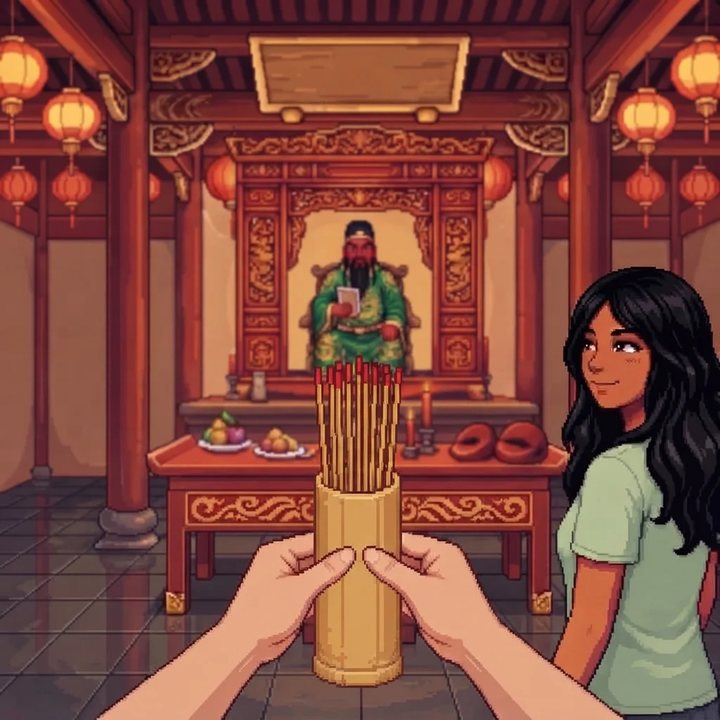
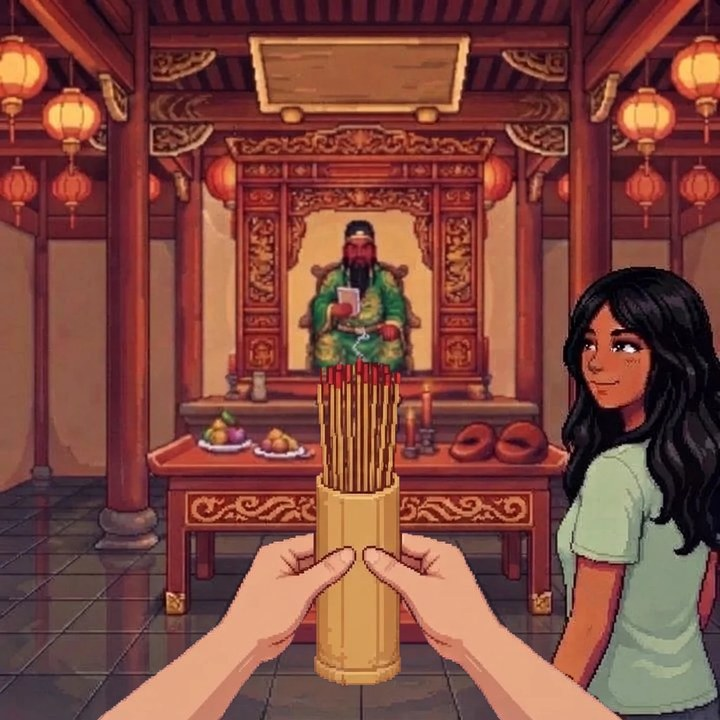
關帝廟：求籤台詞調整、搖籤筒改成單一按鈕加晃動掉籤動畫
- 插香過場與擲筊的旁白、台詞更新，統一用「關聖帝君」
- 抽籤只剩「輕搖籤筒」一個按鈕，移除告示牌與答對說明
- 搖籤時手和籤筒晃動，籤掉到地上，長度與音效相同
- 過場改用籤掉在地上的圖，按鈕改為「問問關聖帝君是不是這支籤」

Claude-Session: https://claude.ai/code/session_01VBTS7qZjQZMzN5jLrVhZ8X

diff --git a/games/guandi/index.html b/games/guandi/index.html
@@ -339,7 +339,48 @@ function rattle(ctx, t0, o) {
 }
 const RATTLE = { seed: 7, n: 22, lo: 1800, hi: 5200, q: 7, tube: 420, thud: .25, vol: 1.18 };
 const RATTLE_MS = 2300;
-const SHAKE = '搖一搖籤筒，讓一支籤自己掉出來。';
+const SHAKE = '輕搖籤筒，等一支籤掉出來。';
+
+/* 搖籤筒動畫：背景（draw_bg.jpg）不動，手和籤筒（draw_hands.png，比畫面高 60，下緣的手臂有延長）跟著聲音晃五下，
+   最後一支籤翻出來掉到地上彈兩下。t＝聲音開始後的秒數，時間點和 rattle() 一樣。
+   停住時的畫面＝draw.jpg，最後一格＝draw_done.jpg */
+const ART = {};
+function drawArt() {
+  if (!ART.bg) for (const [k, f] of [['bg', 'draw_bg.jpg'], ['hands', 'draw_hands.png']]) { ART[k] = new Image(); ART[k].src = 'images/' + f; }
+  return [ART.bg, ART.hands].every(i => i.complete && i.naturalWidth);
+}
+function stickAt(g, x, y, deg, sc, clipY) {   // 一支籤（紅頭）
+  g.save();
+  if (clipY) { g.beginPath(); g.rect(0, 0, 720, clipY); g.clip(); }
+  g.translate(x, y); g.rotate(-deg * Math.PI / 180); g.scale(sc, sc);
+  [['#d79646', -3.5, -75, 7, 150], ['#a05f28', -3.5, -75, 2, 150], ['#7d461e', 1.5, -75, 2, 150], ['#b92823', -3.5, -75, 7, 30]]
+    .forEach(([c, ...r]) => { g.fillStyle = c; g.fillRect(...r); });
+  g.restore();
+}
+function shakeFrame(g, tmp, t) {
+  const GAP = .34, DROP = 5 * GAP + .22, OUT = DROP - .3, tg = tmp.getContext('2d');
+  tg.clearRect(0, 0, tmp.width, tmp.height); tg.drawImage(ART.hands, 0, 0);
+  let dx = 0, dy = 0, ang = 0;
+  if (t > 0 && t < 5 * GAP) {
+    const s = Math.sin((t % GAP) / GAP * 2 * Math.PI), w = Math.sin(t / GAP * Math.PI);
+    dy = 16 * s; ang = 4.5 * w; dx = 5 * w;
+    for (let x = 314; x < 406; x += 7) {   // 籤束一撮一撮往上跳
+      const up = Math.floor(Math.random() * 14 * Math.abs(s) + Math.random() * 4);
+      if (up) tg.drawImage(ART.hands, x, 352, 7, 126, x, 352 - up, 7, 126);
+    }
+  }
+  g.drawImage(ART.bg, 0, 0, 720, 720);
+  if (t >= 1.45 && t < OUT) stickAt(tg, 366, 415 - 75 * Math.min(1, (t - 1.45) / (OUT - 1.45)), -3, 1, 470);   // 從籤筒冒出來
+  else if (t >= OUT && t < DROP) {   // 翻出去往地上掉
+    const u = (t - OUT) / (DROP - OUT);
+    stickAt(g, 366 - 206 * u, 340 + 292 * u * u - 60 * Math.sin(Math.PI * u), -3 + 101 * u, 1 - .12 * u);
+  } else if (t >= DROP) {            // 落地，彈兩下
+    const d = t - DROP, lift = d < .11 ? 24 * Math.sin(Math.PI * d / .11) : d < .18 ? 10 * Math.sin(Math.PI * (d - .11) / .07) : 0;
+    stickAt(g, 160, 632 - lift, 98, .88);
+  }
+  g.save(); g.translate(dx, dy); g.translate(360, 640); g.rotate(-ang * Math.PI / 180); g.translate(-360, -640);
+  g.drawImage(tmp, 0, 0); g.restore();
+}
 
 function beiSVG(face, i) {
   const flip = i ? ' transform="translate(W 0) scale(-1 1)"' : '';
@@ -391,7 +432,7 @@ const STAGE = {
 
 /* 過場按鈕上的情境句：key 是下一關 */
 const NEXT_LABEL = {
-  GATE: '走到廟門口', FIRE: '去點香處拿香點香', HEAVEN: '走到廟的前面', MAIN: '走進大殿', SIDE: '走到側殿', THROW: '回到大殿', DRAW: from => from === 'CONFIRM' ? '回到籤筒重抽' : '走到籤筒前', CONFIRM: '問是不是這支籤', SLIP_NUM: '走到籤櫃',
+  GATE: '走到廟門口', FIRE: '去點香處拿香點香', HEAVEN: '走到廟的前面', MAIN: '走進大殿', SIDE: '走到側殿', THROW: '去求籤', DRAW: from => from === 'CONFIRM' ? '回去重新求籤' : '走到籤筒前', CONFIRM: '問問關聖帝君是不是這支籤', SLIP_NUM: '走到籤櫃',
   READ: '看籤詩', REGISTER: '走到登記處', PAY: '付錢', PAY_FIX: '聽廟公重算', CHANGE: '等找錢', AMULET: '看旁邊的桌子', GUOLU: '走到香爐前', EXIT: '準備離開', END: '走出廟門'
 };
 
@@ -430,12 +471,13 @@ const Game = defineGame({
   att: {},                       // 每一關選了幾次（第一次就對才給綠卡）
   cash: null,
   ti: 0, streak: 0, goNext: null,   // 擲筊：第幾次、連續幾個聖筊、這一關丟完要去哪裡（null＝還要再丟）
-  EXTRA_IMAGES: ['images/gate_in.jpg', 'images/fire_out.jpg'],   // imageFor() 才會用到的圖，也先載好
+  EXTRA_IMAGES: ['images/gate_in.jpg', 'images/fire_out.jpg', 'images/draw_done.jpg', 'images/draw_bg.jpg', 'images/draw_hands.png'],   // imageFor() 才會用到的圖，也先載好
   /* 過場頁預設用上一關的圖；旁白已經到下一個畫面時，改用符合旁白的圖：進廟門（點火處、Ami 在旁邊）、熄火後（香頭只剩灰） */
   imageFor() {
     if (this._transMode && this._trans && this._trans.from === 'GATE' && this._trans.to === 'FIRE') return ['images/gate_in.jpg', '🕯'];
     if (this._transMode && this._trans && this._trans.from === 'FIRE' && this._trans.to === 'HEAVEN') return ['images/fire_out.jpg', '🔥'];
     if (this._transMode && this._trans && this._trans.from === 'HEAVEN') return ['images/heaven.jpg', '🙏'];   // 拜天公的過場：天公爐   // 火熄了：香頭只剩灰、還在冒煙
+    if (this._transMode && this._trans && this._trans.from === 'DRAW') return ['images/draw_done.jpg', '🎋'];   // 抽籤的過場：籤掉在地上
   },
   onStart() { this.updateCash(); },
   updateCash() { document.getElementById('cash-badge').textContent = ''; },
@@ -485,7 +527,7 @@ const Game = defineGame({
     this.ti = 0; this.streak = 0; this.goNext = null;
     this.phase = 'ready'; this.round = 0; this.last = null; this.busy = false;
   },
-  /* 抽籤：選對以後先播籤筒聲，播完才跳下一頁；按了靜音、或裝置不能出聲就不用等 */
+  /* 抽籤：按下以後播籤筒聲和搖晃動畫，播完才跳下一頁。靜音照樣播動畫（只是沒聲音）；開了「減少動態」就不晃 */
   busy: false,
   playRattle() {
     try { if (localStorage.getItem('hg.mute.taiwan-life') === '1') return false; } catch (e) {}
@@ -496,14 +538,38 @@ const Game = defineGame({
     } catch (e) { return false; }
     return true;
   },
+  /* 在場景圖上面疊一張畫布播動畫；回傳畫布（圖還沒載好就不播，回傳 null） */
+  shakeAnim(t) {
+    const img = document.getElementById('npc-avatar');
+    if (!drawArt() || !img.offsetWidth) return null;
+    const cv = document.createElement('canvas'), tmp = document.createElement('canvas');
+    cv.id = 'shake-canvas'; cv.width = cv.height = tmp.width = 720; tmp.height = ART.hands.naturalHeight;
+    cv.setAttribute('aria-hidden', 'true');
+    const g = cv.getContext('2d'), t0 = performance.now(); let last = -1;
+    const place = () => Object.assign(cv.style, { position: 'absolute', left: img.offsetLeft + 'px', top: img.offsetTop + 'px', width: img.offsetWidth + 'px', height: img.offsetHeight + 'px', borderRadius: getComputedStyle(img).borderRadius });
+    img.parentNode.style.position = 'relative'; img.parentNode.appendChild(cv); place(); shakeFrame(g, tmp, 0);
+    const tick = () => {
+      if (!cv.isConnected) return;
+      if (this.task !== t || !this.busy || this.state !== 'DRAW') return cv.remove();
+      const sec = (performance.now() - t0) / 1000 - .05, n = Math.floor(sec * 25);   // 每秒換 25 次
+      if (n !== last) { last = n; place(); shakeFrame(g, tmp, sec); }
+      requestAnimationFrame(tick);
+    };
+    requestAnimationFrame(tick);
+    return cv;
+  },
   handleChoice(choice) {
-    if (this.busy) return;                       // 聲音播放中，按鈕先不理
-    if (this.state !== 'DRAW' || choice !== SHAKE || !this.playRattle()) return GameCore.handleChoice.call(this, choice);
+    if (this.busy) return;                       // 播放中，按鈕先不理
+    if (this.state !== 'DRAW' || choice !== SHAKE) return GameCore.handleChoice.call(this, choice);
+    const sound = this.playRattle(), calm = matchMedia('(prefers-reduced-motion: reduce)').matches;
+    if (!sound && calm) return GameCore.handleChoice.call(this, choice);
     const t = this.task;
     this.busy = true; Tr.closeAll(); Speech.stop(); Music.duck(true);
     document.querySelectorAll('#options-area .opt').forEach(b => { b.disabled = true; });
+    const cv = calm ? null : this.shakeAnim(t);
     setTimeout(() => {
       Music.duck(false);
+      if (cv) cv.remove();
       if (this.task !== t || !this.busy) return;
       this.busy = false;
       if (this.state === 'DRAW') GameCore.handleChoice.call(this, choice);
@@ -525,7 +591,6 @@ const Game = defineGame({
       HEAVEN: L('告示牌：請先拜天公，再拜主神。', 'Letrero: primero rinde culto al Cielo y después a la deidad principal.', 'Sign: first pay respects to Heaven, then to the main deity.'),
       MAIN: L('告示牌：向神明說話時，先問好，再說自己的姓名、生日和住址，然後再說心願。', 'Letrero: al hablar con la deidad, saluda primero, luego di tu nombre, cumpleaños y dirección, y después tu deseo.', 'Sign: when you speak to the deity, greet first, then say your name, birthday and address, and then your wish.'),
       THROW: L('告示牌：一平一圓是聖筊（同意）；兩個平面是笑筊（還沒決定）；兩個圓面是陰筊（不同意）。抽籤前要一個聖筊；抽籤後要連續三個聖筊，才是那支籤。', 'Letrero: una plana y una redonda = sí; dos planas = sonrisa (aún no decide); dos redondas = no. Antes de sacar la varilla hace falta un «sí»; después, tres «sí» seguidos para confirmarla.', 'Sign: one flat + one round = yes; both flat = smile (undecided); both round = no. One yes before drawing; three yeses in a row afterwards to confirm the stick.'),
-      DRAW: L('告示牌：搖籤筒，掉出一支籤就好。', 'Letrero: agita el cilindro; basta con una varilla que caiga.', 'Sign: shake the holder — one stick that falls out is enough.'),
       SLIP_NUM: L('告示牌：籤支上的號碼，要和籤詩的號碼一樣。', 'Letrero: el número de la varilla debe ser igual al del papel.', 'Sign: the number on the stick must match the number on the slip.'),
       REGISTER: L('告示牌：光明燈，一年五百元。請寫姓名。', 'Letrero: lámpara de luz, un año, NT$500. Escribe tu nombre.', 'Sign: light lamp, one year, NT$500. Please write your name.'),
       AMULET: L('告示牌：平安符請自己拿，隨喜投香油錢。', 'Letrero: toma el amuleto tú mismo y deja la donación que quieras.', 'Sign: take a charm yourself and donate as you wish.'),
@@ -538,7 +603,7 @@ const Game = defineGame({
     const at = s => ORDER.indexOf(this.st0) >= ORDER.indexOf(s);
     const t = this.task, sg = this.signs();
     const out = [{ title: 'Ami 說的話', lines: this.amiLines() }];
-    const signs = ['GATE', 'FIRE', 'HEAVEN', 'MAIN', 'THROW', 'DRAW', 'SLIP_NUM', 'REGISTER', 'AMULET', 'GUOLU', 'EXIT'].filter(s => at(s)).map(s => sg[s]);
+    const signs = ['GATE', 'FIRE', 'HEAVEN', 'MAIN', 'THROW', 'SLIP_NUM', 'REGISTER', 'AMULET', 'GUOLU', 'EXIT'].filter(s => at(s)).map(s => sg[s]);
     if (signs.length) out.push({ title: '廟裡的告示牌', lines: signs });
     if (at('PAY_FIX')) out.push({ title: '廟公說的話', lines: [L(`廟公：一共是${zhNum(t.said)}元。`, `Son ${esM(t.said)} en total.`, `${enM(t.said)} in total.`)] });
     return out;
@@ -633,18 +698,19 @@ const Game = defineGame({
   },
   /* 這一次丟出來的結果，Ami 說一句 */
   amiResult(st) {
-    const k = this.last, zh = RES[k].zh, es = { sheng: 'sí', xiao: 'sonrisa', yin: 'no' }[k], en = { sheng: 'yes', xiao: 'smile', yin: 'no' }[k];
+    const k = this.last;
     const say = (z, s, e) => L(`Ami：${z}`, s, e);
     if (st === 'THROW') {
-      if (k === 'sheng') return say('是聖筊！可以抽籤了。', '¡Salió «sí»! Ya puedes sacar la suerte.', "It's a yes! You can draw now.");
+      if (k === 'sheng') return say('是聖筊！關聖帝君說可以，去求籤吧！', '¡Salió «sí»! Guan Shengdijun dice que sí. ¡Ve a pedir tu suerte!', "It's a yes! Lord Guan says you may. Go and ask for your fortune!");
       return k === 'xiao'
-        ? say('是笑筊，神明沒有回答。再丟一次。', 'Salió «sonrisa»: la deidad no responde. Lanza otra vez.', "It's a smile: no answer from the deity. Throw again.")
-        : say('是陰筊，神明說不行。再丟一次。', 'Salió «no»: la deidad dice que no. Lanza otra vez.', "It's a no: the deity says no. Throw again.");
+        ? say('是笑筊，關聖帝君笑笑的沒有回答，再試一次看看吧！', 'Salió «sonrisa»: Guan Shengdijun sonríe y no responde. ¡Prueba otra vez!', "It's a smile: Lord Guan just smiles and doesn't answer. Try again!")
+        : say('是陰筊，關聖帝君說不行，再試一次看看吧！', 'Salió «no»: Guan Shengdijun dice que no. ¡Prueba otra vez!', "It's a no: Lord Guan says no. Try again!");
     }
-    if (k !== 'sheng') return say(`是${zh}，不是這支籤。重新抽一支吧。`, `Salió «${es}»: no es esta varilla. Saca otra.`, `It's a "${en}": not this stick. Draw another one.`);
+    if (k === 'xiao') return say('是笑筊，可能不是這支，再求一支看看吧！', 'Salió «sonrisa»: quizá no sea esta. ¡Pide otra varilla!', "It's a smile: maybe it's not this one. Ask for another stick!");
+    if (k === 'yin') return say('是陰筊，關聖帝君說不是這支，再求一支看看吧！', 'Salió «no»: Guan Shengdijun dice que no es esta. ¡Pide otra varilla!', "It's a no: Lord Guan says it's not this one. Ask for another stick!");
     return this.streak >= 3
-      ? say('三個聖筊！就是這支籤。', '¡Tres «sí»! Es esta varilla.', 'Three yeses! This is the one.')
-      : say('聖筊！再丟一次。', '¡«Sí»! Lanza otra vez.', 'Yes! Throw again.');
+      ? say('三個聖筊！關聖帝君說就是這支籤！', '¡Tres «sí»! Guan Shengdijun dice que es esta varilla.', 'Three yeses! Lord Guan says this is the one!')
+      : say('是聖筊！很好，再丟一次！', '¡Salió «sí»! Muy bien, lanza otra vez.', "It's a yes! Good, throw again!");
   },
   testPrep() {   // 自動測試用：擲筊關直接丟到可以換下一步
     if (!['THROW', 'CONFIRM'].includes(this.state) || this.goNext) return;
@@ -803,7 +869,8 @@ const Game = defineGame({
         dialogue: () => [narr('你走到側殿，向其他神明拜了三下。', 'Vas al salón lateral y haces tres reverencias a las otras deidades.', 'You go to the side hall and bow three times to the other deities.')],
         options: ['插上最後一支香。'],
         next: () => {
-          Game.thought = [narr('你插上最後一支香，三支香都拜完了。', 'Pones la última varilla: ya has ofrecido las tres.', "You place the last stick — you've now offered all three.")];
+          Game.thought = [narr('你插上最後一支香，雙手合十再拜一次。', 'Pones la última varilla, juntas las manos y haces otra reverencia.', 'You place the last stick, press your palms together and bow once more.'),
+            ami('我們去跟關聖帝君求個籤吧！', '¡Vamos a pedirle una suerte a Guan Shengdijun!', "Let's go and ask Lord Guan for a fortune!")];
           Game.state = 'THROW';
         }
       },
@@ -811,24 +878,24 @@ const Game = defineGame({
       /* ═══ 擲筊（抽籤前）：一個聖筊，才可以抽籤 ═══ */
       THROW: {
         place: 'temple',
-        html: () => Game.formatText([L('我：請問關聖帝君，我可以抽籤嗎？', 'Yo: Guan Shengdijun, ¿puedo sacar la suerte?', 'Me: Lord Guan, may I draw a fortune?')]) + Game.beiHTML(),
+        html: () => Game.formatText([ami('要先問問關聖帝君可不可以給你一支籤唷！', 'Primero hay que preguntarle a Guan Shengdijun si puede darte una varilla.', 'First you need to ask Lord Guan whether he can give you a fortune stick!'),
+          L('我：請問關聖帝君，可以給我一支籤嗎？', 'Yo: Guan Shengdijun, ¿puede darme una varilla, por favor?', 'Me: Lord Guan, may I have a fortune stick?')]) + Game.beiHTML(),
         mount: box => Game.bindToss(box),
         dialogue: () => said('THROW'),
         options: goLabel,
         next: leaveThrow
       },
 
-      /* ═══ 抽籤 ═══ */
+      /* ═══ 抽籤：只有一個動作（各廟做法不同，不考怎麼抽，也不扣分） ═══ */
       DRAW: {
         place: 'temple',
-        dialogue: () => [narr('籤筒裡有很多支籤。', 'El cilindro tiene muchas varillas.', 'The holder is full of fortune sticks.'),
-          ami('我在旁邊陪你。', 'Estoy aquí contigo.', "I'm here with you.")],
-        options: () => rotOf(t, [SHAKE, '一次抽兩支，比較保險。', '用手在籤筒裡挑一支自己喜歡的。']),
-        next: c => {
-          if (c !== SHAKE) { Game.addMistake(c.includes('兩支') ? M('一次只能抽一支，一件事問一次。', 'Solo se saca una varilla: una pregunta, una vez.', 'Draw only one stick — one question, one time.') : M('籤要讓它自己掉出來，不能自己挑。', 'La varilla debe caer sola; no se elige.', 'Let the stick fall out by itself — you can’t choose.')); return; }
-          goodFirst('DRAW', '沒錯！籤要讓它自己掉出來。', '¡Exacto! La varilla debe caer sola.', 'Right! Let the stick fall out by itself.');
+        mount: () => drawArt(),   // 先把動畫要用的圖載好
+        dialogue: () => [Game.round ? ami('我們再求一支籤吧！', '¡Pidamos otra varilla!', "Let's ask for another stick!")
+          : ami('你來求一支籤吧！', '¡Pide tú una varilla!', 'Go ahead and ask for a fortune stick!')],
+        options: [SHAKE],
+        next: () => {
           const n = Game.drawnSlip().n;
-          Game.thought = [narr(`一支籤掉出來了。籤支上寫著「${slipNo(n)}」。你把籤支放在桌上。`, `Cae una varilla. Dice «${slipNoEs(n)}». La dejas sobre la mesa.`, `One stick falls out. It reads "No. ${n}". You put it on the table.`)];
+          Game.thought = [narr(`一支籤掉出來了。籤支上寫著「${slipNo(n)}」。`, `Cae una varilla. Dice «${slipNoEs(n)}».`, `A stick falls out. It reads "No. ${n}".`)];
           Game.state = 'CONFIRM';
         }
       },

diff --git a/tools/guandi_test.py b/tools/guandi_test.py
@@ -58,7 +58,7 @@ with sync_playwright() as p:
     page.wait_for_timeout(350); page.screenshot(path='/tmp/t_fly.png')
     page.wait_for_timeout(1000)
     check('第一次笑筊／陰筊時沒有任何按鈕', ev(page, 'Game.phase') == 'landed' and page.locator('#options-area .opt').count() == 0)
-    check('Ami 說結果', 'Ami：是' in txt(page) and '再丟一次' in txt(page), txt(page))
+    check('Ami 說結果', 'Ami：是' in txt(page) and '再試一次' in txt(page), txt(page))
     check('可以直接再滑', '再往上滑一次' in txt(page))
     page.wait_for_timeout(500)
     check('落地後看得到 Ami 的話', ev(page, "document.querySelector('#npc-dialogue').getBoundingClientRect().bottom <= innerHeight + 1"))
@@ -66,7 +66,7 @@ with sync_playwright() as p:
     page.locator('.toss.again').tap(); page.wait_for_timeout(200)
     check('落地後點一下不會丟', ev(page, 'Game.ti') == 1 and ev(page, 'Game.phase') == 'landed')
     swipe(page, -110); page.wait_for_timeout(1300)
-    check('再滑一次得到聖筊、出現一顆按鈕', ev(page, 'Game.ti') == 2 and page.locator('#options-area .opt').count() == 1 and '可以抽籤了' in txt(page))
+    check('再滑一次得到聖筊、出現一顆按鈕', ev(page, 'Game.ti') == 2 and page.locator('#options-area .opt').count() == 1 and '關聖帝君說可以，去求籤吧' in txt(page))
     check('聖筊以後不能再丟', page.locator('.toss[role=button]').count() == 0)
     page.screenshot(path='/tmp/t_pass.png', full_page=True)
     page.locator('#options-area .opt').click(); page.wait_for_timeout(200)
@@ -97,30 +97,37 @@ with sync_playwright() as p:
                 steps += 1; st = ev(page, 'Game.state')
                 if st == '_TRANS': ev(page, 'Game.handleChoice(Game.transLabel())'); continue
                 if st == 'DRAW':
-                    for bad in ('一次抽兩支，比較保險。', '用手在籤筒裡挑一支自己喜歡的。'):
-                        m = ev(page, 'Game.mistakes'); opt(page, bad); check('抽籤錯選扣分', ev(page, 'Game.mistakes') == m + 1 and ev(page, 'Game.state') == 'DRAW')
-                    sticks.append(ev(page, 'Game.drawnSlip().n')); opt(page, '搖一搖籤筒，讓一支籤自己掉出來。'); page.wait_for_function('()=>!Game.busy'); continue
+                    again = len(sticks) > 0
+                    check('抽籤頁 Ami 的話', ('我們再求一支籤吧！' if again else '你來求一支籤吧！') in txt(page) and '籤筒裡有很多' not in txt(page), txt(page))
+                    check('抽籤只有一個按鈕', page.locator('#options-area .opt').count() == 1 and txt(page, '#options-area') == '輕搖籤筒，等一支籤掉出來。')
+                    m = ev(page, 'Game.mistakes'); sticks.append(ev(page, 'Game.drawnSlip().n')); opt(page, '輕搖籤筒，等一支籤掉出來。'); page.wait_for_function('()=>!Game.busy')
+                    n = ev(page, 'slipNo(Game.drawnSlip().n)')
+                    check('抽籤過場的旁白、按鈕、圖', f'一支籤掉出來了。籤支上寫著「{n}」。' in txt(page) and '桌上' not in txt(page) and txt(page, '#options-area') == '問問關聖帝君是不是這支籤'
+                          and ev(page, "document.querySelector('#npc-avatar').getAttribute('src')") == 'images/draw_done.jpg' and ev(page, 'Game.mistakes') == m, txt(page))
+                    continue
                 if ev(page, 'Game.phase') == 'ready':
                     n = ev(page, 'slipNo(Game.drawnSlip().n)')
-                    mine = '我可以抽籤嗎？' if st == 'THROW' else f'請問是{n}嗎？'
+                    mine = '請問關聖帝君，可以給我一支籤嗎？' if st == 'THROW' else f'請問是{n}嗎？'
                     t_ = txt(page)
-                    check('丟之前只有玩家那一句', mine in t_ and 'Ami' not in t_ and page.locator('#options-area .opt').count() == 0, t_)
+                    ask = '要先問問關聖帝君可不可以給你一支籤唷！'
+                    check('丟之前的台詞', mine in t_ and (t_.index(ask) < t_.index(mine) if st == 'THROW' else 'Ami' not in t_) and page.locator('#options-area .opt').count() == 0, t_)
                 page.locator('.toss[role=button]').focus(); page.keyboard.press('Enter'); page.wait_for_timeout(230); throws += 1
                 k = ev(page, 'Game.last'); non += k != 'sheng'
                 faces = ev(page, "[...document.querySelectorAll('.toss.landed .bei')].map(e=>e.classList.contains('flat')?'flat':'round')")
                 check('畫面的筊杯和結果一致', faces == ev(page, f"RES['{k}'].cups"), (k, faces))
                 t_, streak, go = txt(page), ev(page, 'Game.streak'), ev(page, 'Game.goNext')
                 zh = ev(page, f"RES['{k}'].zh")
-                if st == 'THROW': say = '是聖筊！可以抽籤了。' if k == 'sheng' else f'是{zh}，神明'
-                elif k != 'sheng': say = f'是{zh}，不是這支籤。重新抽一支吧。'
-                else: say = '三個聖筊！就是這支籤。' if streak == 3 else '聖筊！再丟一次。'
+                if st == 'THROW': say = {'sheng': '是聖筊！關聖帝君說可以，去求籤吧！', 'xiao': '是笑筊，關聖帝君笑笑的沒有回答，再試一次看看吧！', 'yin': '是陰筊，關聖帝君說不行，再試一次看看吧！'}[k]
+                elif k == 'xiao': say = '是笑筊，可能不是這支，再求一支看看吧！'
+                elif k == 'yin': say = '是陰筊，關聖帝君說不是這支，再求一支看看吧！'
+                else: say = '三個聖筊！關聖帝君說就是這支籤！' if streak == 3 else '是聖筊！很好，再丟一次！'
                 check('Ami 說的結果正確', 'Ami：' + say in t_, (st, k, streak, t_))
                 if st == 'CONFIRM': check('連續聖筊計數', f'：{streak} / 3' in t_, t_)
                 btns = page.locator('#options-area .opt').count()
                 check('只有要換下一步時才有一顆按鈕', btns == (1 if go else 0), (btns, go))
                 if go:
                     label = txt(page, '#options-area')
-                    want_label = '走到籤櫃' if go == 'SLIP_NUM' else ('走到籤筒前' if st == 'THROW' else '回到籤筒重抽')
+                    want_label = '走到籤櫃' if go == 'SLIP_NUM' else ('走到籤筒前' if st == 'THROW' else '回去重新求籤')
                     check('按鈕文字', label == want_label, label)
                     page.locator('#options-area .opt').click(); page.wait_for_timeout(60)
                     check('按鈕直接到下一步', ev(page, 'Game.state') == go, ev(page, 'Game.state'))
@@ -135,30 +142,44 @@ with sync_playwright() as p:
     # ── 丟到一半重畫、離開關卡 ──
     jump(page, 'THROW', '甲'); ev(page, 'Game.toss(); Game.toss(); Game.render()'); page.wait_for_timeout(1300)
     check('連按只丟一次', ev(page, 'Game.phase') == 'landed' and ev(page, 'Game.ti') == 1)
-    # ── 籤筒聲：播完才跳頁、靜音不用等 ──
-    SHK = '搖一搖籤筒，讓一支籤自己掉出來。'
-    def btn():   # 「搖一搖」那顆按鈕（選項順序每局不同）
-        i = ev(page, "[...document.querySelectorAll('#options-area .opt')].findIndex(b=>{const c=b.cloneNode(true);c.querySelectorAll('rt').forEach(r=>r.remove());return c.textContent.includes('搖一搖')})")
-        return page.locator('#options-area .opt').nth(i)
-    jump(page, 'DRAW'); a0 = ev(page, 'Game.att.DRAW||0'); btn().click(); page.wait_for_timeout(400)
-    check('按下後先播聲音、還沒跳頁', ev(page, 'Game.busy') and ev(page, 'Game.state') == 'DRAW' and ev(page, 'Game.sfx.state') == 'running')
-    check('播放中按鈕不能按', ev(page, "[...document.querySelectorAll('#options-area .opt')].every(b=>b.disabled)"))
-    ev(page, "Game.handleChoice(" + repr(SHK) + ")")
-    m = ev(page, 'Game.mistakes'); ev(page, "Game.handleChoice('一次抽兩支，比較保險。')"); check('播放中錯選沒有作用', ev(page, 'Game.mistakes') == m)
-    page.wait_for_timeout(1200); check('1.6 秒時還在播', ev(page, 'Game.state') == 'DRAW')
-    page.wait_for_timeout(1100); check('播完跳過場', ev(page, 'Game.state') == '_TRANS' and not ev(page, 'Game.busy') and ev(page, 'Game._trans.to') == 'CONFIRM' and ev(page, 'Game.att.DRAW') == a0 + 1, (a0, ev(page, 'Game.att.DRAW')))
+    # ── 籤筒聲和搖晃動畫：點了才晃、播完才跳頁、靜音照樣晃 ──
+    SHK = '輕搖籤筒，等一支籤掉出來。'
+    btn = lambda: page.locator('#options-area .opt').first
+    snap = "document.querySelector('#shake-canvas').toDataURL()"
+    for muted in (False, True):
+        tag = '靜音' if muted else '有聲'
+        ev(page, f"localStorage.setItem('hg.mute.taiwan-life','{int(muted)}')")
+        jump(page, 'DRAW'); page.wait_for_function('()=>drawArt()'); page.wait_for_timeout(500)
+        check(tag + '：點之前沒有動畫', page.locator('#shake-canvas').count() == 0)
+        a0 = ev(page, 'Game.att.DRAW||0'); btn().click(); page.wait_for_timeout(250)
+        check(tag + '：按下後開始、還沒跳頁', ev(page, 'Game.busy') and ev(page, 'Game.state') == 'DRAW' and page.locator('#shake-canvas').count() == 1)
+        if not muted: check('有聲：聲音在播', ev(page, 'Game.sfx.state') == 'running')
+        box = ev(page, "['#shake-canvas','#npc-avatar'].map(q=>{const r=document.querySelector(q).getBoundingClientRect();return [r.x,r.y,r.width,r.height].map(Math.round)})")
+        check(tag + '：動畫蓋住場景圖', box[0] == box[1], box)
+        f1 = ev(page, snap); page.wait_for_timeout(130); check(tag + '：畫面在動', f1 != ev(page, snap))
+        page.screenshot(path=f'/tmp/t_shake_{int(muted)}.png')
+        check(tag + '：播放中按鈕不能按', ev(page, "[...document.querySelectorAll('#options-area .opt')].every(b=>b.disabled)"))
+        ev(page, "Game.handleChoice(" + repr(SHK) + ")")
+        page.wait_for_timeout(1200); check(tag + '：約 1.6 秒時還在播', ev(page, 'Game.state') == 'DRAW' and page.locator('#shake-canvas').count() == 1)
+        page.wait_for_timeout(1100); check(tag + '：播完跳過場、畫布拿掉', ev(page, 'Game.state') == '_TRANS' and not ev(page, 'Game.busy') and ev(page, 'Game._trans.to') == 'CONFIRM' and ev(page, 'Game.att.DRAW') == a0 + 1 and page.locator('#shake-canvas').count() == 0)
+    ev(page, "localStorage.removeItem('hg.mute.taiwan-life')")
     peak = ev(page, "(async()=>{const c=new OfflineAudioContext(1,44100*2.5,44100);rattle(c,.05,RATTLE);const d=(await c.startRendering()).getChannelData(0);let m=0,l=0;for(let i=0;i<d.length;i++){const a=Math.abs(d[i]);if(a>m)m=a;if(a>.01)l=i}return [m,l/44100]})()")
     check('聲音聽得到、不破音、在跳頁前結束', .3 < peak[0] <= 1 and peak[1] < 2.3, peak)
     jump(page, 'DRAW'); btn().click(); page.wait_for_timeout(200); jump(page, 'HEAVEN'); page.wait_for_timeout(2500)
-    check('播放中重開新局：不會亂跳', ev(page, 'Game.state') == 'HEAVEN' and not ev(page, 'Game.busy'))
+    check('播放中重開新局：不會亂跳', ev(page, 'Game.state') == 'HEAVEN' and not ev(page, 'Game.busy') and page.locator('#shake-canvas').count() == 0)
+    page.emulate_media(reduced_motion='reduce'); jump(page, 'DRAW'); btn().click(); page.wait_for_timeout(200)
+    check('減少動態：不晃，等聲音播完', ev(page, 'Game.busy') and page.locator('#shake-canvas').count() == 0)
+    page.wait_for_function('()=>!Game.busy')
     ev(page, "localStorage.setItem('hg.mute.taiwan-life','1')"); jump(page, 'DRAW'); btn().click(); page.wait_for_timeout(100)
-    check('靜音時直接跳頁', ev(page, 'Game.state') == '_TRANS' and not ev(page, 'Game.busy'))
-    ev(page, "localStorage.removeItem('hg.mute.taiwan-life')")
+    check('減少動態又靜音：直接跳頁', ev(page, 'Game.state') == '_TRANS' and not ev(page, 'Game.busy'))
+    ev(page, "localStorage.removeItem('hg.mute.taiwan-life')"); page.emulate_media(reduced_motion='no-preference')
     # ── 插香：天公爐 → 大殿 → 側殿 ──
     jump(page, 'HEAVEN'); opt(page, '天公爐拜天公'); check('天公爐插一支', '把一支香插進天公爐' in ev(page, 'Game.thought[0].zh'))
     ev(page, 'Game.handleChoice(Game.transLabel()); Game.handleChoice(MAIN_RIGHT.slice())'); check('大殿插一支', any('把一支香插進大殿' in t for t in ev(page, 'Game.thought.map(t=>t.zh)')))
     ev(page, 'Game.handleChoice(Game.transLabel())'); check('進側殿', ev(page, 'Game.state') == 'SIDE')
-    opt(page, '插上最後一支香。'); ev(page, 'Game.handleChoice(Game.transLabel())'); check('回大殿擲筊', ev(page, 'Game.state') == 'THROW' and ev(page, 'Game.phase') == 'ready')
+    opt(page, '插上最後一支香。')
+    check('插完香的過場', '雙手合十再拜一次' in txt(page) and 'Ami：我們去跟關聖帝君求個籤吧！' in txt(page) and txt(page, '#options-area') == '去求籤', txt(page))
+    ev(page, 'Game.handleChoice(Game.transLabel())'); check('回大殿擲筊', ev(page, 'Game.state') == 'THROW' and ev(page, 'Game.phase') == 'ready')
     ctx.close(); b.close()
     check('沒有程式錯誤', not errs, errs[:3])
 print(f'通過 {ok} 項，失敗 {fail} 項')

diff --git a/tools/oracles/guandi.py b/tools/oracles/guandi.py
@@ -9,8 +9,8 @@ ORACLE = """() => {
     MAIN: MAIN_RIGHT,
     SIDE: '插上最後一支香。',
     THROW: () => '走到籤筒前',
-    CONFIRM: () => Game.goNext === 'SLIP_NUM' ? '走到籤櫃' : '回到籤筒重抽',
-    DRAW: '搖一搖籤筒，讓一支籤自己掉出來。',
+    CONFIRM: () => Game.goNext === 'SLIP_NUM' ? '走到籤櫃' : '回去重新求籤',
+    DRAW: '輕搖籤筒，等一支籤掉出來。',
     SLIP_NUM: () => t.numWrong ? `不好意思，我抽到的是${slipNo(S.n)}。` : '對，是這張，謝謝。',
     READ: '謝謝關公。我會好好努力。',
     REGISTER: () => t.regWrong ? (t.regKind === 'name' ? `不好意思，我的名字是${N}。` : '不好意思，我要點一年的。') : '對，沒錯。',

diff --git a/README.md b/README.md
@@ -100,13 +100,14 @@ parent.postMessage({ type: 'scene-complete', scene: '<scene>', score, mistakes }
 地圖 slot 23（原本的工地 site4，已拿掉），`gated: true`＝預設維修中，管理員頁「地圖開關」打開才能玩。排行榜 `guandigame_scores`。
 劇情：主角最近不太順利，Ami 帶他去關帝廟求關公保佑。Ami 全程陪伴但不幫忙（只有解籤那一句白話）。登記光明燈用玩家輸入的暱稱。
 
-流程：龍進虎出（面對廟，右邊龍邊進）→ 點香、熄香（輕輕晃動或手搧，不能用嘴吹；兩種正解每局隨機出一種）→ 先拜天公 → 拜關公（先說姓名住址再說心願）→ 擲筊（隨機結果，連續三個聖筊才能求籤）→ 抽籤（20 支）→ **籤櫃：廟公可能拿錯籤號** → 看籤詩（Ami 一句白話）→ **登記光明燈：廟公複誦登記單，可能說錯名字或期限** → 報價 500 元（**可能多算**）→ 用一千元付、找 500（**可能找錯**）→ 平安符（放旁邊自己拿，和光明燈分開）→ 過爐（順時針三圈）→ 虎邊出去。
+流程：龍進虎出（面對廟，右邊龍邊進）→ 點香、熄香（輕輕晃動或手搧，不能用嘴吹；兩種正解每局隨機出一種）→ 先拜天公 → 拜關公（先說姓名住址再說心願）→ 擲筊（隨機結果，一個聖筊才能求籤）→ 抽籤（20 支；只有「輕搖籤筒」一個動作，不扣分，播搖籤聲和晃動動畫，靜音照樣晃）→ 擲筊確認（連續三個聖筊才是那支籤）→ **籤櫃：廟公可能拿錯籤號** → 看籤詩（Ami 一句白話）→ **登記光明燈：廟公複誦登記單，可能說錯名字或期限** → 報價 500 元（**可能多算**）→ 用一千元付、找 500（**可能找錯**）→ 平安符（放旁邊自己拿，和光明燈分開）→ 過爐（順時針三圈）→ 虎邊出去。
 
 - **籤詩**：從「關聖帝君一百籤」上上、上吉、中吉、中平、下下五種等級各取 4 支，共 20 支（第 1、2、3、5、7、10、14、15、23、28、31、35、40、55、60、65、70、75、85、100 籤），原文在 `index.html` 的 `SLIPS`，白話一句是自己寫的。等級標示依「流年知否」網站；**各廟、各網站的等級標示不一定一樣**。
 - **擲筊規則**：一平一圓＝聖筊（同意）；兩個平面＝笑筊（還沒決定／問題不清楚）；兩個圓面＝陰筊（不同意）。連續三個聖筊才求籤。
 - 付錢不用 `billFor`：光明燈固定 500 元、身上只有一張一千元，所以 `PAY`／`PAY_FIX`／`CHANGE` 寫在這個遊戲自己的 `getConfig()` 裡（用 `catchState`），找完錢接到平安符。
 - 正解在 `tools/oracles/guandi.py`；`tools/smoke.py` 已加入名單。
-- 圖片提示詞在 `docs/image-prompts-guandi.md`（16 張），圖片檔還沒有，缺圖時自動顯示 emoji。
+- 圖片提示詞在 `docs/image-prompts-guandi.md`，缺圖時自動顯示 emoji。
+- 抽籤圖有四個檔：`draw.jpg`（停住）、`draw_bg.jpg`（背景）、`draw_hands.png`（手和籤筒，720×780 透明底）、`draw_done.jpg`（籤掉在地上）。換 `draw_bg.jpg` 或手的圖時，另外三個要一起重做。
 - **地圖已往下加一條馬路（2026-10-29）**：`ROWS` 42→56，第四條橫向馬路在第 47、48 列，新增 `BUILD_SLOTS` 24–31（當時是 8 個空位；slot 24 之後已給服飾店，現在剩 slot 25–31 共 7 個空位，新遊戲從 slot 25 開始）。人行道、樹、行人、貓、車、路口、阿嬤斑馬線事件都跟著加了。
 - 台詞和拼音是第一版草稿，需要 Ben 審。籤詩的多音字（例如「長」「行」）拼音沒有逐一核對。
 

diff --git a/docs/image-prompts-guandi.md b/docs/image-prompts-guandi.md
@@ -180,6 +180,17 @@ Edit the attached image. Keep the same temple, the same pixel-art style and the 
 Edit the attached image. Keep the same hall, the same pixel-art style and the same warm lighting, and change ONLY the framing: the camera is at chest height, close to the big bronze incense burner in the main hall; thin incense smoke rises from many burning sticks. The player's two plain bare hands (no rings, no watch, no nail polish, no sleeves) hold a small red cloth protection charm on a string just above the burner, over the smoke. The altar and red candles are softly blurred behind. No arrows, no readable text.
 ```
 
+### 補充：`draw_bg.jpg`（抽籤動畫的背景，2026-11-26）
+
+- 用在：抽籤時的晃動動畫。手和籤筒另外從原本的抽籤圖剪下來（`draw_hands.png`）。
+- 底圖：上傳原本手捧籤筒的抽籤圖（編輯式）
+
+```
+Edit the attached image. Cozy 16-bit pixel art illustration, square 1:1 image, clean chunky pixel outlines, soft warm color palette, warm gentle candlelight. Camera: exactly the same as the attached image (first-person view, facing the main altar straight on, at eye level, perfectly level and centered); do not move, zoom or crop. Keep everything identical and change ONLY this: remove both hands, both arms, the bamboo fortune-stick holder and all of its sticks. Fill the area behind them naturally with what belongs there: the middle of the red-and-gold carved offering table with a bronze incense burner on it, the table legs, the altar steps and the dark glossy tiled floor. The young woman on the right, the statue, the lanterns, the pillars and every other object must stay exactly the same in position, size and appearance. No hands, no new people, no new objects, no readable text.
+```
+
+---
+
 ### 14. `result.jpg`
 
 - 用在：RESULT
